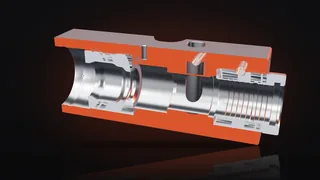
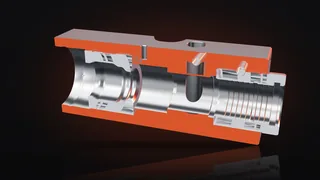
fix(shop): S56 tool bushing from the standard sheet, S54 head bore, Rammer fitted sets
The S56 kafa burcu was modelled from a one-customer (OZEL) Ø200 sheet; the
standard sheet gives Ø190, matching the front head and its pin hole. The S54
head bore lost a cone that was a misread relief. E66 N and S56 get fitted
(burçlu) pictures; S54, G80 and G88 fitted sets re-seated per the drawings.

Claude-Session: https://claude.ai/code/session_01RSQdZzwnmEDvhT42Xh181c

diff --git a/apps/parts-shop/src/lib/photos.ts b/apps/parts-shop/src/lib/photos.ts
@@ -176,7 +176,7 @@ const RAMMER_ALT_GOVDE: SeriesHead[] = [
   { model: 'G100', slug: 'g100', window: true },
   { model: 'S25', slug: 's25', window: true },
   { model: 'S29', slug: 's29', window: true },
-  { model: 'S54', slug: 's54', window: true },
+  { model: 'S54', slug: 's54', window: true, v: '02' },
   { model: 'S55', slug: 's55', window: true },
   { model: 'S56', slug: 's56', window: true },
   { model: 'S83', slug: 's83', window: true },
@@ -425,7 +425,7 @@ const RAMMER_BURC: Bushing[] = [
   { model: 'S54', file: 'rammer-s-54-ust', kind: 'thrustRing' },
   { model: 'S55', file: 'rammer-s-55-kafa', kind: 'toolBushing' },
   { model: 'S55', file: 'rammer-s-55-ust', kind: 'thrustRing' },
-  { model: 'S56', file: 'rammer-s-56-kafa', kind: 'toolBushing' },
+  { model: 'S56', file: 'rammer-s-56-kafa-v2', kind: 'toolBushing' },
   { model: 'S56', file: 'rammer-s-56-ust', kind: 'thrustRing' },
   { model: 'S56', file: 'rammer-s56-dayama-yag-kanalli', kind: 'thrustRing', variant: 'oilGroove' },
   { model: 'S82', file: 'rammer-s-82-kafa', kind: 'toolBushing' },
@@ -1731,6 +1731,7 @@ const FITTED = new Set<string>([
   'rammer-e64',
   'rammer-e65',
   'rammer-e66',
+  'rammer-e66n',
   'rammer-e68',
   'rammer-g100',
   'rammer-g80',
@@ -1740,6 +1741,7 @@ const FITTED = new Set<string>([
   'rammer-s29',
   'rammer-s54',
   'rammer-s55',
+  'rammer-s56',
   'rammer-s83',
   'rammer-s84',
   'rammer-s86',

diff --git a/CLAUDE.md b/CLAUDE.md
@@ -70,7 +70,7 @@ Unit tests exist only for `@kervan/tips` (Node's built-in runner, `node --experi
 
 ### parts-shop (magaza.kervanbreaker.com) — M1 preview
 
-- **Static, no router, no server code.** Every page is prerendered with its props embedded as JSON (`<script id="kv-page">`) and hydrated by `main.tsx`; links are plain `<a>`. Pages: `/`, `/kirici-ucu` (every breaker model, live search with `?q=` from the home search box, A–Z make chips), `/marka/<make>`, `/cok-satanlar`, `/kirici/<make>/<model>` (the product page, one per breaker model), `/yedek-parca` + `/yedek-parca/{alt-govde,burc,kama,saplama,piston,akumulator,asinma-plakasi}` (the other parts we make: our stock photos, 3D renders of parts modelled from our drawings captioned with the breaker model they fit (`PART_RENDERS` in `src/lib/photos.ts`, e.g. Rammer E68 alt gövde; files in `public/photos/parca/`, same 4:3 naming as the photos; every part also gets a 16:9 showcase picture, `hero`; part renders publish one size only (`-lg`: 1600 px hero, 960 px views, plus the 320 px `-xs` strip thumbnail) because Pages allows at most 20,000 files per deployment (stock photos keep `-sm` + `-lg`), on the dark stage with an ember glow and floor reflection, used as the page lead and the card picture; a part may add an interactive 3D model, `model3d`, a GLB in `public/models/`, immutable, opened on demand by "3B incele" in `PartViewer`, a lazy chunk so three.js loads only on click; drag/pinch/arrow keys turn it, auto-turn stops on touch and is off under reduced motion — the only motion in the shop; its "Kesit" button adds a slider that sweeps a cross-section plane from end to end, the cut face drawn by the back faces in one flat ember tone; 3D is Rammer E68 only, owner's choice; its GLB is the front head with the kafa burcu, üst burç and dayama burcu (thrust ring, seated against the shoulder of the Ø225 bore, puller holes to the rear) fitted, the bushing nodes named `fitted…` so their cut faces show in light steel). The burç page shows our bushings in one strip per make (Rammer incl. E68 with its thrust ring, MTB, Krupp, Atlas Copco incl. HBC / SBC / TEX, Soosan, Montabert, Furukawa, NPK, Indeco, Daemo, Hanwoo, DNB, Cat, MSB incl. SAGA, Toku, Kwanglim, D&A, Topa, Mega, Kent, Kanglim, Okada, Toyo, Jisung, General, Lifton, Tabe, Arrowhead, Komac, Euroram, then the rock-drill thrust rings of Tamrock HL and Atlas Copco COP in their own strips; `burc-<make>-<model>-<kafa|ust>-{vitrin,on,arka,yan,kesit}-01`, lists `*_BURC` in `photos.ts`). Every thrust ring in the archive was gone through (owner: "tüm arşiv"): separate dayama burçları sit next to the model's merkezleme as `<file>-dayama[-<variant>]` (variants from the title block: MTB Y / E types, the E two-piece set modelled without its ara halka; Montabert L / T types; `oldType` by sheet date; Rammer S56 `oilGroove`); the Indeco MES 7000 part first published as a thrust ring is the dayama ara burcu, a spacer clamped behind it (`spacerBushing`). Research notes (archive + web, owner asked to settle them): GA 150 / 200 / 300 / 400 are İnan Makina's (MTB's maker) GA line built on the Furukawa HB 15G / 20G / 30G / 40G rings, GA-30 is the MTB-30: not published as their own cards; LB-200 / LB 350 are Leetec (Korea) drawing names İnan took over (LB-200 = MTB 150, LB 350 = MTB 270 / MSB 800): no LB make, the MTB 150 Leetec greased ring shows as variant `greasingHole`; MTB-180 was the working name of the MTB 220, its 2008 ring was replaced by the published one: not shown; MTB 360E's thrust ring is the 4340 sheet (its title was copied from the ara burç sheet); the Montabert BRH 250 ring is our 2006 Ø138.7 design (OEM lists no thrust ring); the earlier Ø140 sheet was a one-customer (Bulgaria) version and is no longer shown; the short Ø185 MES 3500 / 4000 rings are the 1998-99 designs (`oldType`), the Ø220 flanged ones go with our 2001/2003 front heads; HM 2100 Eco and Marathon share the thrust ring (Krupp 3069081), shown as HM 2100 Marathon; S56's oil-groove ring is a later in-house option of the same drawing (Ø182 spigot as dimensioned). Still held: a Furukawa HB ring with no model (Ø200 × 100, fits none of HB 1000 / 1200 exactly). `kind` names each in the caption and under the strip thumbnail, from the drawing's title block: kafa burcu = tool/lower bushing, üst burç = upper (merkezleme), dayama burcu = thrust ring, dayama-merkezleme burcu = thrust ring and upper bushing in one piece (owner: label combined ones so), Krupp HM 140 / 190, Atlas Copco SBC 610 and Tabe AGB 375 one piece for all three, Lifton LH 360 and Atlas Copco TEX 700 / 900 one piece kafa-merkezleme (`toolUpperBushing`). The "K" folder is Kent (K 50 / 70 / 90) and KTB is Kanglim (owner). Held back until the owner confirms the make or model: a KHB 20 sheet in the Stanley folder, Jacty VRH-100 in the Lifton folder, Toyo 5000 (title block names only Dehaco), the MSB 800 thrust ring titled LB 350; Toyo bushings use THBB names (no DHB). The kama, saplama and piston pages show the same 20 breaker models (`PART_KIT` in `photos.ts`, one strip per make): the tool pin / key (`retainerKey`), the through bolt "boy saplama" (`tieRod`) and the impact piston, one drawing each (`<part>-<make>-<model>-<view>-01`; kama on/arka/yan, saplama yan/on, piston on/arka/yan/kesit). More parts, one drawing each (`OtherPart` lists in `photos.ts`, files named after the drawing slug): retainer pins (`retainerPin`) join the kama page, side bolts (`sideBolt`) the saplama page; `akumulator` shows accumulator covers / bottoms / bolts and `asinma-plakasi` wear plates (rendered standing on their long edge, generator `standUp`, so the ember rim light does not wash over the large face). Wear plates are drawn in their material (generator `finish`): cast polyurethane in yellow (the colour our drawings give; red for HM 960, as its sheet says), polyamide natural (MTB 85, Rammer E64), steel for S84 (20MnCr5) and the Montabert BRH 501 / BRV 32 plates (tapped bolt holes); sheets without a material (Cat, D&A) are drawn as yellow PU (Cat sells its hammer wear plates as plastic). Left out: the HM 1300 side bolt (owner: same breaker as the unchecked HM 1301), sheets whose title block names another model, one-customer (ÖZEL) sheets, and a retainer-pin bushing that is not a pin. Bushings: left out are drawings whose title block names another model than their folder or that duplicate another sheet, the rough blank (KABA) MTB 250/255, HM 1301 (unchecked, like its front head), Furukawa HD drifters, crossed-out or faulty (HATALI) sheets and the E68 alt gövde adds an assembly section view (`assembly`); the N and City kafa burcu drawings belong to other E68 versions and are not modelled. Renders with a `series` (the 17 Rammer E/G/S front heads, `alt-govde-rammer-<model>-…-01`, led by the E68 with its 3D model (G88 has no window close-up: its nut notches render badly there), the 26 MTB front heads, `alt-govde-mtb-<model>-…-01`, the 23 Krupp HM/AT front heads, `alt-govde-krupp-<model>-…-<v>` (HM 560 and HM 580 share one drawing, shown as one card; HM 900 also has its old type, `variant: 'oldType'`), and 5 Atlas Copco HB/MB heads, `alt-govde-atlas-copco-…` (owner: named Atlas Copco, the badge they were sold under after Atlas Copco bought Krupp's breakers in 2002, now Epiroc; MB 1000 notes the Krupp HM 680 it followed), 15 Soosan SB (old type) / SB TS-P / ST heads, `alt-govde-soosan-…` (SB60, SB81 and SB121 TS-P also come with round tie-rod nuts, `variant: 'roundNut'`; the SH-35G sheet in the Soosan folder is left out: its make could not be confirmed), 14 Montabert BRH / BRM / BRP / BRV / M heads, `alt-govde-montabert-…` (the two off-axis cylinders in their middle bore are milled reliefs, "freze boşaltma"), 16 Furukawa F / HB-G / HB heads (HB30G also as its old type), 5 Okada OKB heads, 9 Toyo THBB heads (THBB 1600 also as its old type; the Dehaco DHB names in the drawing folders are not used: unconfirmed), NPK, Indeco, Daemo, Hanwoo, DNB, Cat, MSB (with SAGA 6000), Toku, Kwanglim, D&A, Topa, Mega and Kent heads plus Atlas Copco TEX 700/900 and 1400 (model names from the title blocks; no "equivalent of" notes, owner's choice; NPK H-7X is the 310-long head drawn outside the frame, the framed 110-long part has no tool-pin and is not a front head; the "DNB S-2000" title block is a Daemo S2000, DNB has no S series; MSB SAGA 8000's sheet draws a tie rod and is left out), and the Tamrock HL 510 front head (`kind: 'rockDrillHead'`: a rock drill, not a breaker, so its own strip and caption; Tamrock owned Rammer from 1995 and became Sandvik in 1997), all generated in `photos.ts` (`seriesRender`; a changed render gets a new file version `v`). The HM 1301 drawing is marked "kontrol edilecek" and is not published; heads without tie-rod windows have no window close-up) share one sideways strip per series of showcase thumbnails (`<hero>-xs.webp`, 320 px) that picks the model shown below it (`SeriesPicker` in `Part.tsx`: one tab stop, arrow/Home/End keys, picking fills the quote's breaker field unless typed and writes `#<make>-<model>`, which also opens a model directly; make jump links above the strips); tip pages list the parts we model for the same breaker and part captions link back (`src/lib/part-links.ts`, build time, matched like the search); every render also has its own prerendered item page `/yedek-parca/<part>/<renderAnchor>` (`partItem`, `PartItem.tsx`: the group's picture block via `RenderFigure`, a quote prefilled with the breaker, links to the group, the breaker's tip and its other parts, `og:image` = the hero so a WhatsApp/Telegram link shows the part; owner: "link atamıyorum"), and tip pages, the best-sellers page and the related links point there, not to `#hash` (which still opens the model on the group page); each part has "Bağlantıyı paylaş" (`ShareLinks`: `navigator.share`, else copy the absolute item URL with a polite status) and a WhatsApp send link; the owner makes the front heads, not the cylinders, and a quote by breaker model; no catalogue data yet), `/urun/<family code>` (permanent codes, tips with no listed breaker) (+ `/en/…`), `404.html`. Tips are one spare-part group, never a separate category (owner: "Kırıcı uçları da bir yedek parça"): the header has a category bar under the logo row naming every group (Uç, Alt gövde, Burç, …, `nav.groups`; Uç is current on all tip pages, `TIP_PATHS`) plus Çok satanlar, no umbrella "Yedek parçalar" entry (owner); on phones it scrolls sideways with the current group brought into view, the language link moves to the top contact bar and the quote button shortens (`quoteShort`); no page has a numbers/statistics box (owner removed them), tip pages' breadcrumb is Ana sayfa / Kırıcı yedek parçaları / Kırıcı ucu / …, and site-wide copy says "yedek parça", not "uç ve yedek parça". Search (`@kervan/tips` `search.ts`, unit-tested) folds Turkish i/İ/ı and ç/ş/ğ/ö/ü, spaces and dashes, and when nothing matches suggests a corrected make ("Bunu mu demek istediniz"); it never drops the make or the model number. Breaker names are cleaned up for display by `displayBreakers` (`@kervan/tips`, `breaker-display.ts`): one spelling per make (`BREAKER_BRANDS`, aliases such as "DEMO / Daemo" → Daemo, "IR MONTABERT" → Montabert, typos; MTB models drop the "MT" series prefix, owner's rule), the make taken from the model text when the brand column is empty, lists split; catalogue fragments with no make get no breaker page. Product pages (owner's direction): the breaker make/model is the product name; show only the working diameter (no body dimensions, length or weight, no fitting-breakers list, no Kervan code on the page: it only goes into the quote message, never "generated from dimensions" wording); one tip-type selector over every type the breaker takes (a type comes from the first tip family that has it) swaps the pictures after hydration, the prerender shows the first; then "Stoğumuzdan" (our stock photos, `src/lib/photos.ts`, files in `public/photos/`, 4:3 `-sm`/`-lg` webp, new name to replace) and the "model not listed" WhatsApp box. The pictures come first on phones too (owner), then the selector and quote; a WhatsApp/call bar stays at the bottom. `prerender.mjs` wraps every page in `<!--email_off-->` so Cloudflare's Email Address Obfuscation does not rewrite the prefilled mailto links. No motion in M1 apart from the on-demand 3D viewer. `vite` dev renders the DEMO catalog.
+- **Static, no router, no server code.** Every page is prerendered with its props embedded as JSON (`<script id="kv-page">`) and hydrated by `main.tsx`; links are plain `<a>`. Pages: `/`, `/kirici-ucu` (every breaker model, live search with `?q=` from the home search box, A–Z make chips), `/marka/<make>`, `/cok-satanlar`, `/kirici/<make>/<model>` (the product page, one per breaker model), `/yedek-parca` + `/yedek-parca/{alt-govde,burc,kama,saplama,piston,akumulator,asinma-plakasi}` (the other parts we make: our stock photos, 3D renders of parts modelled from our drawings captioned with the breaker model they fit (`PART_RENDERS` in `src/lib/photos.ts`, e.g. Rammer E68 alt gövde; files in `public/photos/parca/`, same 4:3 naming as the photos; every part also gets a 16:9 showcase picture, `hero`; part renders publish one size only (`-lg`: 1600 px hero, 960 px views, plus the 320 px `-xs` strip thumbnail) because Pages allows at most 20,000 files per deployment (stock photos keep `-sm` + `-lg`), on the dark stage with an ember glow and floor reflection, used as the page lead and the card picture; a part may add an interactive 3D model, `model3d`, a GLB in `public/models/`, immutable, opened on demand by "3B incele" in `PartViewer`, a lazy chunk so three.js loads only on click; drag/pinch/arrow keys turn it, auto-turn stops on touch and is off under reduced motion — the only motion in the shop; its "Kesit" button adds a slider that sweeps a cross-section plane from end to end, the cut face drawn by the back faces in one flat ember tone; 3D is Rammer E68 only, owner's choice; its GLB is the front head with the kafa burcu, üst burç and dayama burcu (thrust ring, seated against the shoulder of the Ø225 bore, puller holes to the rear) fitted, the bushing nodes named `fitted…` so their cut faces show in light steel). The burç page shows our bushings in one strip per make (Rammer incl. E68 with its thrust ring, MTB, Krupp, Atlas Copco incl. HBC / SBC / TEX, Soosan, Montabert, Furukawa, NPK, Indeco, Daemo, Hanwoo, DNB, Cat, MSB incl. SAGA, Toku, Kwanglim, D&A, Topa, Mega, Kent, Kanglim, Okada, Toyo, Jisung, General, Lifton, Tabe, Arrowhead, Komac, Euroram, then the rock-drill thrust rings of Tamrock HL and Atlas Copco COP in their own strips; `burc-<make>-<model>-<kafa|ust>-{vitrin,on,arka,yan,kesit}-01`, lists `*_BURC` in `photos.ts`). Every thrust ring in the archive was gone through (owner: "tüm arşiv"): separate dayama burçları sit next to the model's merkezleme as `<file>-dayama[-<variant>]` (variants from the title block: MTB Y / E types, the E two-piece set modelled without its ara halka; Montabert L / T types; `oldType` by sheet date; Rammer S56 `oilGroove`); the Indeco MES 7000 part first published as a thrust ring is the dayama ara burcu, a spacer clamped behind it (`spacerBushing`). Research notes (archive + web, owner asked to settle them): GA 150 / 200 / 300 / 400 are İnan Makina's (MTB's maker) GA line built on the Furukawa HB 15G / 20G / 30G / 40G rings, GA-30 is the MTB-30: not published as their own cards; LB-200 / LB 350 are Leetec (Korea) drawing names İnan took over (LB-200 = MTB 150, LB 350 = MTB 270 / MSB 800): no LB make, the MTB 150 Leetec greased ring shows as variant `greasingHole`; MTB-180 was the working name of the MTB 220, its 2008 ring was replaced by the published one: not shown; MTB 360E's thrust ring is the 4340 sheet (its title was copied from the ara burç sheet); the Montabert BRH 250 ring is our 2006 Ø138.7 design (OEM lists no thrust ring); the earlier Ø140 sheet was a one-customer (Bulgaria) version and is no longer shown; the short Ø185 MES 3500 / 4000 rings are the 1998-99 designs (`oldType`), the Ø220 flanged ones go with our 2001/2003 front heads; HM 2100 Eco and Marathon share the thrust ring (Krupp 3069081), shown as HM 2100 Marathon; S56's oil-groove ring is a later in-house option of the same drawing (Ø182 spigot as dimensioned). The S56 kafa burcu is the standard Ø190 sheet (`rammer-s-56-kafa-v2`); the Ø200 "ÖZEL Almanya-Shon" sheet first published fits no S56 head and is left out. Rammer's E66 N parts list carries our E66 bushings' part numbers, so the E66 N burçlu set uses them. The S54 head (`v: '02'`) has no cone in its Ø160 bore (the earlier one was a misread Detail C relief). Still held: a Furukawa HB ring with no model (Ø200 × 100, fits none of HB 1000 / 1200 exactly). `kind` names each in the caption and under the strip thumbnail, from the drawing's title block: kafa burcu = tool/lower bushing, üst burç = upper (merkezleme), dayama burcu = thrust ring, dayama-merkezleme burcu = thrust ring and upper bushing in one piece (owner: label combined ones so), Krupp HM 140 / 190, Atlas Copco SBC 610 and Tabe AGB 375 one piece for all three, Lifton LH 360 and Atlas Copco TEX 700 / 900 one piece kafa-merkezleme (`toolUpperBushing`). The "K" folder is Kent (K 50 / 70 / 90) and KTB is Kanglim (owner). Held back until the owner confirms the make or model: a KHB 20 sheet in the Stanley folder, Jacty VRH-100 in the Lifton folder, Toyo 5000 (title block names only Dehaco), the MSB 800 thrust ring titled LB 350; Toyo bushings use THBB names (no DHB). The kama, saplama and piston pages show the same 20 breaker models (`PART_KIT` in `photos.ts`, one strip per make): the tool pin / key (`retainerKey`), the through bolt "boy saplama" (`tieRod`) and the impact piston, one drawing each (`<part>-<make>-<model>-<view>-01`; kama on/arka/yan, saplama yan/on, piston on/arka/yan/kesit). More parts, one drawing each (`OtherPart` lists in `photos.ts`, files named after the drawing slug): retainer pins (`retainerPin`) join the kama page, side bolts (`sideBolt`) the saplama page; `akumulator` shows accumulator covers / bottoms / bolts and `asinma-plakasi` wear plates (rendered standing on their long edge, generator `standUp`, so the ember rim light does not wash over the large face). Wear plates are drawn in their material (generator `finish`): cast polyurethane in yellow (the colour our drawings give; red for HM 960, as its sheet says), polyamide natural (MTB 85, Rammer E64), steel for S84 (20MnCr5) and the Montabert BRH 501 / BRV 32 plates (tapped bolt holes); sheets without a material (Cat, D&A) are drawn as yellow PU (Cat sells its hammer wear plates as plastic). Left out: the HM 1300 side bolt (owner: same breaker as the unchecked HM 1301), sheets whose title block names another model, one-customer (ÖZEL) sheets, and a retainer-pin bushing that is not a pin. Bushings: left out are drawings whose title block names another model than their folder or that duplicate another sheet, the rough blank (KABA) MTB 250/255, HM 1301 (unchecked, like its front head), Furukawa HD drifters, crossed-out or faulty (HATALI) sheets and the E68 alt gövde adds an assembly section view (`assembly`); the N and City kafa burcu drawings belong to other E68 versions and are not modelled. Renders with a `series` (the 17 Rammer E/G/S front heads, `alt-govde-rammer-<model>-…-01`, led by the E68 with its 3D model (G88 has no window close-up: its nut notches render badly there), the 26 MTB front heads, `alt-govde-mtb-<model>-…-01`, the 23 Krupp HM/AT front heads, `alt-govde-krupp-<model>-…-<v>` (HM 560 and HM 580 share one drawing, shown as one card; HM 900 also has its old type, `variant: 'oldType'`), and 5 Atlas Copco HB/MB heads, `alt-govde-atlas-copco-…` (owner: named Atlas Copco, the badge they were sold under after Atlas Copco bought Krupp's breakers in 2002, now Epiroc; MB 1000 notes the Krupp HM 680 it followed), 15 Soosan SB (old type) / SB TS-P / ST heads, `alt-govde-soosan-…` (SB60, SB81 and SB121 TS-P also come with round tie-rod nuts, `variant: 'roundNut'`; the SH-35G sheet in the Soosan folder is left out: its make could not be confirmed), 14 Montabert BRH / BRM / BRP / BRV / M heads, `alt-govde-montabert-…` (the two off-axis cylinders in their middle bore are milled reliefs, "freze boşaltma"), 16 Furukawa F / HB-G / HB heads (HB30G also as its old type), 5 Okada OKB heads, 9 Toyo THBB heads (THBB 1600 also as its old type; the Dehaco DHB names in the drawing folders are not used: unconfirmed), NPK, Indeco, Daemo, Hanwoo, DNB, Cat, MSB (with SAGA 6000), Toku, Kwanglim, D&A, Topa, Mega and Kent heads plus Atlas Copco TEX 700/900 and 1400 (model names from the title blocks; no "equivalent of" notes, owner's choice; NPK H-7X is the 310-long head drawn outside the frame, the framed 110-long part has no tool-pin and is not a front head; the "DNB S-2000" title block is a Daemo S2000, DNB has no S series; MSB SAGA 8000's sheet draws a tie rod and is left out), and the Tamrock HL 510 front head (`kind: 'rockDrillHead'`: a rock drill, not a breaker, so its own strip and caption; Tamrock owned Rammer from 1995 and became Sandvik in 1997), all generated in `photos.ts` (`seriesRender`; a changed render gets a new file version `v`). The HM 1301 drawing is marked "kontrol edilecek" and is not published; heads without tie-rod windows have no window close-up) share one sideways strip per series of showcase thumbnails (`<hero>-xs.webp`, 320 px) that picks the model shown below it (`SeriesPicker` in `Part.tsx`: one tab stop, arrow/Home/End keys, picking fills the quote's breaker field unless typed and writes `#<make>-<model>`, which also opens a model directly; make jump links above the strips); tip pages list the parts we model for the same breaker and part captions link back (`src/lib/part-links.ts`, build time, matched like the search); every render also has its own prerendered item page `/yedek-parca/<part>/<renderAnchor>` (`partItem`, `PartItem.tsx`: the group's picture block via `RenderFigure`, a quote prefilled with the breaker, links to the group, the breaker's tip and its other parts, `og:image` = the hero so a WhatsApp/Telegram link shows the part; owner: "link atamıyorum"), and tip pages, the best-sellers page and the related links point there, not to `#hash` (which still opens the model on the group page); each part has "Bağlantıyı paylaş" (`ShareLinks`: `navigator.share`, else copy the absolute item URL with a polite status) and a WhatsApp send link; the owner makes the front heads, not the cylinders, and a quote by breaker model; no catalogue data yet), `/urun/<family code>` (permanent codes, tips with no listed breaker) (+ `/en/…`), `404.html`. Tips are one spare-part group, never a separate category (owner: "Kırıcı uçları da bir yedek parça"): the header has a category bar under the logo row naming every group (Uç, Alt gövde, Burç, …, `nav.groups`; Uç is current on all tip pages, `TIP_PATHS`) plus Çok satanlar, no umbrella "Yedek parçalar" entry (owner); on phones it scrolls sideways with the current group brought into view, the language link moves to the top contact bar and the quote button shortens (`quoteShort`); no page has a numbers/statistics box (owner removed them), tip pages' breadcrumb is Ana sayfa / Kırıcı yedek parçaları / Kırıcı ucu / …, and site-wide copy says "yedek parça", not "uç ve yedek parça". Search (`@kervan/tips` `search.ts`, unit-tested) folds Turkish i/İ/ı and ç/ş/ğ/ö/ü, spaces and dashes, and when nothing matches suggests a corrected make ("Bunu mu demek istediniz"); it never drops the make or the model number. Breaker names are cleaned up for display by `displayBreakers` (`@kervan/tips`, `breaker-display.ts`): one spelling per make (`BREAKER_BRANDS`, aliases such as "DEMO / Daemo" → Daemo, "IR MONTABERT" → Montabert, typos; MTB models drop the "MT" series prefix, owner's rule), the make taken from the model text when the brand column is empty, lists split; catalogue fragments with no make get no breaker page. Product pages (owner's direction): the breaker make/model is the product name; show only the working diameter (no body dimensions, length or weight, no fitting-breakers list, no Kervan code on the page: it only goes into the quote message, never "generated from dimensions" wording); one tip-type selector over every type the breaker takes (a type comes from the first tip family that has it) swaps the pictures after hydration, the prerender shows the first; then "Stoğumuzdan" (our stock photos, `src/lib/photos.ts`, files in `public/photos/`, 4:3 `-sm`/`-lg` webp, new name to replace) and the "model not listed" WhatsApp box. The pictures come first on phones too (owner), then the selector and quote; a WhatsApp/call bar stays at the bottom. `prerender.mjs` wraps every page in `<!--email_off-->` so Cloudflare's Email Address Obfuscation does not rewrite the prefilled mailto links. No motion in M1 apart from the on-demand 3D viewer. `vite` dev renders the DEMO catalog.
 - **Prices, cart, extras:** prices are net USD per SKU in D1 (`skus.price_usd_net_cents`), written by the manual workflow **Shop prices** (`.github/workflows/shop-prices.yml`): paste the owner's price sheet (JSON `PriceSheet` in `packages/tips/src/sql.ts`: `prices` SKU code → cents, `extras` = products sold by breaker model without catalogue geometry (optional working diameter) → table `extra_products` (migration `0002_extras.sql`), `aliases` = more breaker names for existing families); it applies every migration, writes the SQL to `$RUNNER_TEMP` (`scripts/shop-prices.ts` refuses repo paths), executes it and redeploys the shop. The sheet and the pricing policy never enter the repo. Pages show the USD price and the TRY price at the CBRT USD selling rate fetched by `build-catalog.ts` (`catalog.fx`, date shown; USD only if the fetch fails); no "+KDV" label on product pages (owner: prices are net, everyone knows); the cart shows subtotal (excl. VAT), VAT (`VAT_PERCENT` = 20 in `src/lib/price.ts`) and the total incl. VAT in USD and TRY (owner, consumer price rules), and the order message carries all three. **Shop daily rebuild** (`shop-daily.yml`) redeploys the shop every morning so the rate stays current. The cart lives only in the browser (`src/lib/cart.ts`, `localStorage('kv_cart_v1')`): called "palet" on the site (owner): "Palete yükle" on product pages, `/palet` (old `/sepet` 301s via `_redirects`) sends an order request as a WhatsApp or e-mail message (contact fields go only into that message, never stored); no online payment and no user accounts yet (owner agreed: guest order requests first). Delivery copy (owner): "Stoktan aynı gün kargo" (availability row, trust strip, cart note); messages never ask for the lead time. Legal pages (`src/lib/legal.ts`, TR binding + EN translation): `/yasal/{on-bilgilendirme,mesafeli-satis,iade-ve-cayma,kvkk}`, linked from the footer ("Yasal") and the cart; seller details there (`SELLER`) are the registered company's, not `ORG_LEGAL_NAME`. Sales are to consumers too, so consumer rules apply: 14-day withdrawal, free return via our named carrier (only business buyers pay return shipping), custom-made items excluded.
 - **Data lives in D1 `kervan-shop`, never in git.** The manual workflow **Shop data import** (`.github/workflows/shop-import.yml`) reads KV `catalog:v1` / `popular:v1` (namespace id in the repo variable `SHOP_SOURCE_KV_ID`), applies `migrations/0001_init.sql`, runs `scripts/shop-import.ts` into `$RUNNER_TEMP` (refuses paths inside the repo) and executes the SQL, then redeploys the shop. Re-imports update geometry and best-seller tiers only; codes, `published`, prices and stock are the owner's.
 - **Build:** `scripts/build-catalog.ts` queries D1 (`SHOP_D1` + `CLOUDFLARE_API_TOKEN` = secret `CLOUDFLARE_SHOP_DATA_TOKEN`, D1 Edit + KV Read) and writes `.catalog/catalog.json` (gitignored) through `toPublicCatalog` (whitelist). Without the token it writes the DEMO catalog (`XX…` codes, DEMO banner); repo variable `SHOP_REQUIRE_CATALOG=1` makes main deploys fail instead. Turbo never caches this build. `scripts/check-dist.mjs` fails the build if a page lacks `noindex` / props or any file contains a forbidden string (`vega`, `VT` + 7 digits, private D1 column names).
